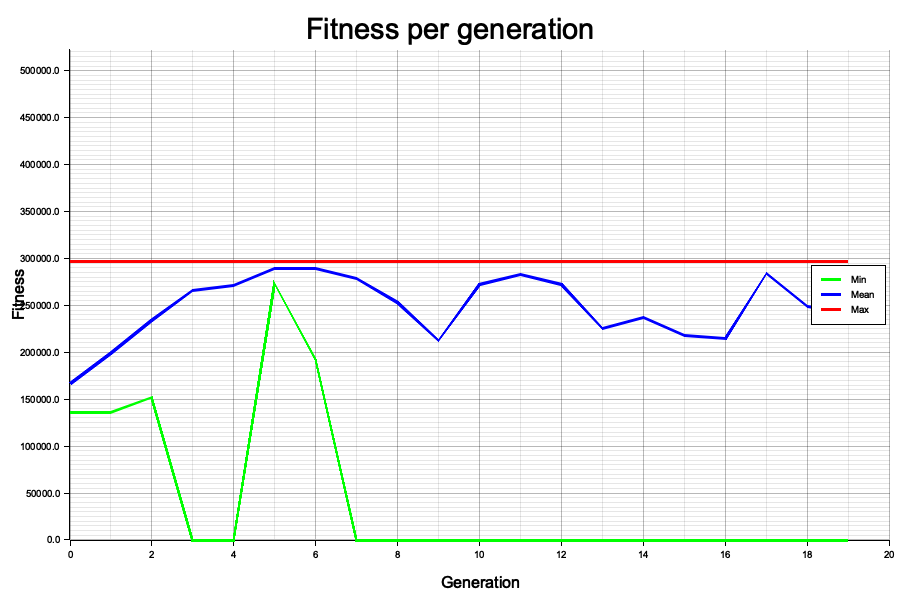
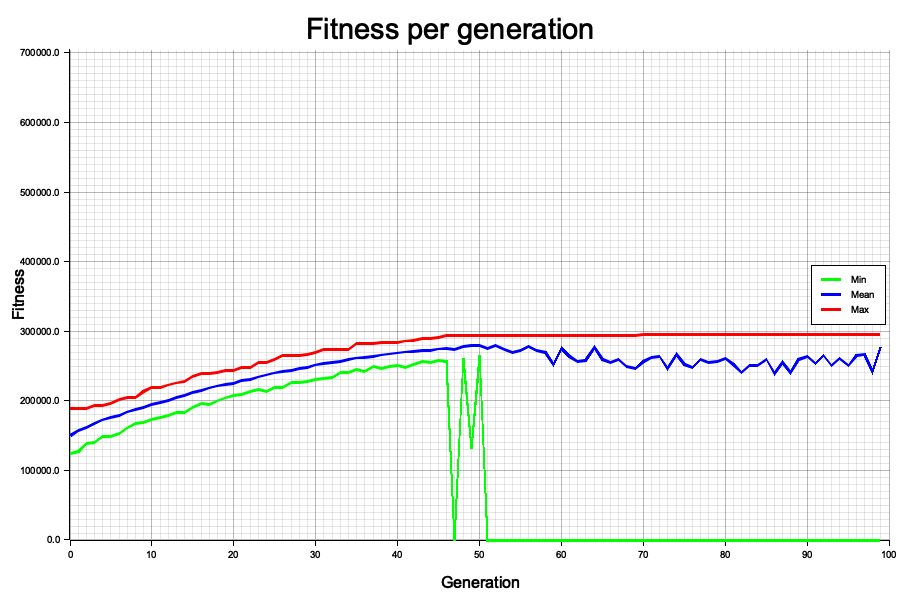
:sparkels: Added better seeding of population

Changed region(s): [[0.0, 0.06, 0.9956, 0.93]]

diff --git a/src/main.rs b/src/main.rs
@@ -5,12 +5,12 @@ use serde::Deserialize;
 
 const MAX_WEIGHT: f64 = 280785.0;
 const PENALTY_FACTOR: f64 = 1000.0;
-const POPULATION_SIZE: usize = 100;
+const POPULATION_SIZE: usize = 1000;
 const MUTATION_RATE: f64 = 0.01;
 const CROSSOVER_RATE: f64 = 0.85;
-const GENERATIONS: usize = 20;
-const ELITISM_COUNT: usize = 3;
-const TOURNAMENT_SIZE: usize = 3;
+const GENERATIONS: usize = 100;
+const ELITISM_COUNT: usize = 5;
+const TOURNAMENT_SIZE: usize = 2;
 
 #[derive(Deserialize, Clone)]
 struct DataPoint {
@@ -69,26 +69,12 @@ struct GA {
 
 impl GA {
     fn new(items: Vec<DataPoint>, population_size: usize, mutation_rate: f64, crossover_rate: f64, elitism_count: usize, generations: usize) -> Self {
-        let mut population = Vec::new();
+        let mut population = Vec::with_capacity(population_size);
         let mut rng = rand::thread_rng();
-        let mut indices: Vec<usize> = (0..items.len()).collect();
-        indices.sort_by(|&a, &b| {
-            let ra = items[a].p / items[a].w.max(1e-9);
-            let rb = items[b].p / items[b].w.max(1e-9);
-            rb.partial_cmp(&ra).unwrap_or(std::cmp::Ordering::Equal)
-        });
-        let mut greedy_genes = BitVec::repeat(false, items.len());
-        let mut w = 0.0;
-        for &idx in &indices {
-            if w + items[idx].w <= MAX_WEIGHT {
-                greedy_genes.set(idx, true);
-                w += items[idx].w;
-            }
-        }
-        population.push(Individual { genes: greedy_genes, fitness: 0.0 });
-        for _ in 1..population_size {
-            let mut genes = BitVec::repeat(false, items.len());
-            for i in 0..items.len() {
+        let n_genes = items.len();
+        for _ in 0..population_size {
+            let mut genes = BitVec::repeat(false, n_genes);
+            for i in 0..n_genes {
                 if rng.gen_bool(0.4) {
                     genes.set(i, true);
                 }
